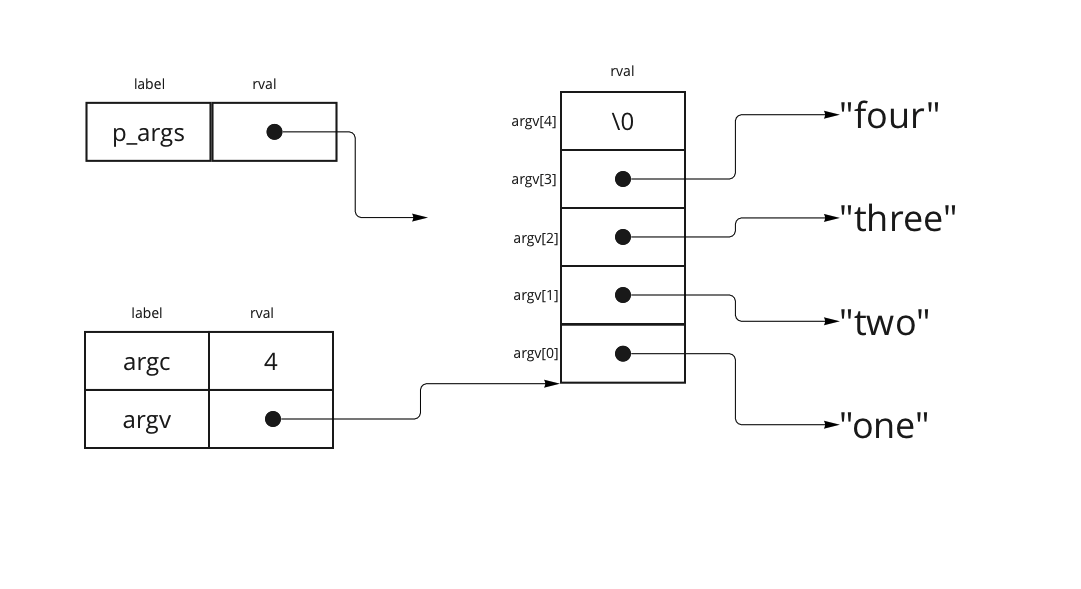
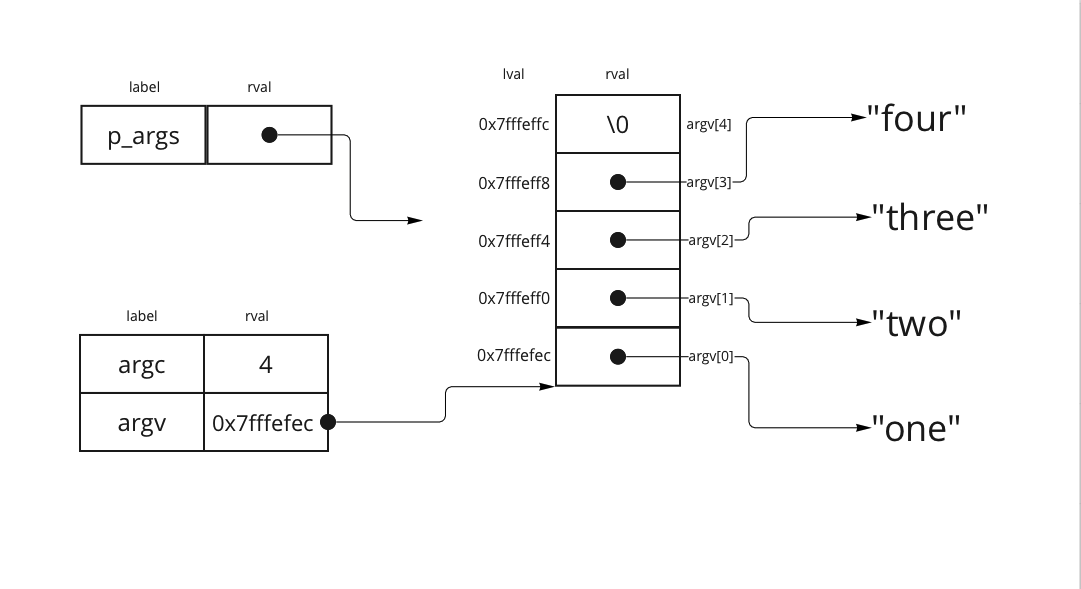
closer to the final spec

diff --git a/README.md b/README.md
@@ -58,9 +58,20 @@ A MIPS program can also have command-line arguments. These are, however, proved 
    - argc is placed into $a0, and the value represents an integer
    - argv is placed into $a1, and the value represents the address of argv
 
-The structure of the argv data structure is depicted as follows:
-![The data structure for the argv](/argv.png)
+Given the command ``echo one two three four``, we can depict the values of argc and argv as follows:
+![The data structure for the argv](/argv.png).
 
+Note the following within the diagram:
+   1. The rval of argc is four.
+   1. The rval of argv is an address in memory: 0x7fffefec.
+   1. The depicted addresses of memory are in increments of 4.
+      - Recall, an address is a 32-bit quantity on the MIPS architecture.
+      - Hence, 4 bytes are required to store a 32-bit quantity.
+   1. The rval of each array element is an address.
+      - This address is the starting location of each string: "one", "two", "three", and "four".
+   1. The variable p_arg has been introduced into the diagram.
+      - Via a loop, we will exam each element of the argv array: argv[0] ... argv[3].
+      - The p_arg variable is used to **p**oint to the current **arg**ument being processed.
 
 
 ### Project Deliverables
@@ -73,7 +84,7 @@ The deliverables for this projects are:
 
   1. echo.java: which prints out each of the the command-line arguments 
      - Language: Java
-     - Task: insert a for-loop to print each argument -- in turn
+     - Task: insert a for-loop to print each argument separated by a space (' ')
      - Tag: java-echo-done
 
   1. echo.s: which prints out the number of command-line arguments
@@ -83,7 +94,7 @@ The deliverables for this projects are:
 
   1. echo.s: which prints out the series 1 .. argc 
      - Language: MIPS
-     - Task: insert a loop to that counts from 1 to the number of arguments
+     - Task: insert a loop to print the value separated by a newline ('\n')
      - Tag: mips-echo-loop
 
   1. echo.s: prints out the command-line arguments
@@ -129,20 +140,26 @@ The deliverables for this projects are:
          - ``git tag java-echo-done``
 ---
  1. Work on the Java version of the project.
-    1. Stage 3: MIPS code to echo the number of command-line arguments
+    1. Stage 3: 
        * Create an file called echo.s that includes the starter code
-       * Test this program to ensure it works correctly
+       * Note the following within the echo.s file
+         1. Bookkeeping comments have been added to identify register allocation
+         1. Code has been added to de-marshal the formal arguments
+         1. A syscall, via the print_d macro, is used to print a decimal number
+         1. A syscall, via the exiti macro, is used to exit the program with an **i**mmediate value
+       * Use the booking comments to guide your develop.
+       * Test this program to ensure it works correctly.
           ```
-          $ mars me echo.s pa apple peach grape 2>/dev/null
+          $ mars me echo.s pa apple peach grape 2> /dev/null
           4
           $
           ```
-       * Commit this working version to repo
+       * Commit this working version to your repository
           - ``git add echo.s``
           - ``git commit -m 'some informative message'`` 
           - ``git tag mips-echo-start``
 
-    1. Stage 4: Looping from 0 to argc -1
+    1. Stage 4: 
        * Consider the following Java loop
           ```
           i=0;
@@ -156,7 +173,7 @@ The deliverables for this projects are:
           ``` 
                  li $t1, 0              # i=0
           loop:  bge $t1, $t0, done     # for ( ; i < argc ; ) {
-                   print_d($t0)         #   print("%d\n", i);
+                   print_d $t0          #   print("%d\n", i);
                    print_ci '\n'        #
                    addi $t1, $t1, 1     #   i++;
                  b loop                 #
@@ -175,7 +192,13 @@ The deliverables for this projects are:
     1. Stage 5: 
        1. Modify your loop to ...
           - walk the argv array
-          - print each string
+            - initialize p_arg to be the value of argv before the start of the loop
+            - increment the value p_arg by 4 at the end of each loop iteration
+          - print each string, in turn, within the body of the loop
+            - set the value of str to be equal that address stored at p_args
+              ``lw $t4, 0($t3)          #   str = (* p_args)``
+            - call the ``print_s`` syscall to print the string
+
        1. Test your code to ensure you have the following output
           ```
           $ mars me echo_cmd_line.s pa apple peach grape 2>/dev/null
@@ -234,7 +257,7 @@ $ mars me echo.s pa apple peach grape 2>/dev/null
 $ git checkout main
 ```
 
-1. echo.s that echos out the command-line arguements:
+1. echo.s that echos out the command-line arguments:
 ```
 $ git checkout mips-echo-done
 $ mars me echo.s pa apple peach grape 2>/dev/null
@@ -285,11 +308,11 @@ $ git checkout main
             move $t1, $a1
      
             # Print number of arguments
-            print_d($t0)
+            print_d $t0
             print_ci '\n'
         
             # Return from main with the value of zero
-            exiti(0)
+            exiti 0
    ```            
 
 
